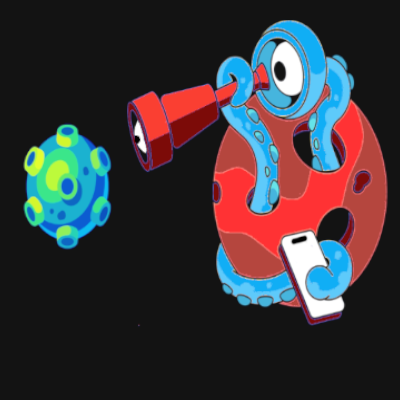
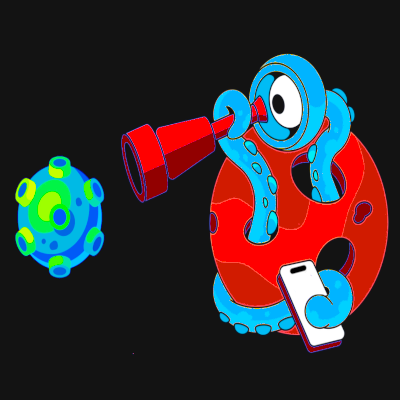
save

diff --git a/src/Pages/AboutUs.js b/src/Pages/AboutUs.js
@@ -1,0 +1,83 @@
+import React from "react";
+import Footer from "../Components/Layout/Footer";
+import NavBar from "../Components/Layout/NavBar";
+import volods from "../Images/volodslogo.png";
+
+export default function AboutUs() {
+  return (
+    <>
+      <NavBar />
+      <div className="h-auto bg-[#131313]">
+        <div className="flex flex-col justify-center items-center pt-10">
+          <h1 className="text-[#94C0D9] text-2xl font-[quicksand] md:text-3xl">WE ARE</h1>
+          <img src={volods} className="w-96 h-48" alt="logo" />
+          <p className="text-lg p-5 text-white font-[quicksand] text-center  md:text-xl lg:pl-28 lg:pr-28 xl:pl-72 xl:pr-72">
+            Not very long time ago when our founders wanted to hire developers
+            for their startup project, they used many freelancing platforms to
+            hire these developers, but little did they know that they were
+            playing Russian roulette and will end up hiring the wrong person
+            that will potentially ruin their entire project. After that the
+            founders pledge that they will create such exclusive community of
+            developers so that no other startup has to endure this pain. That's
+            how Volods came into existence.
+          </p>
+
+          <h1 className="text-[#94C0D9] text-2xl mt-10 font-[quicksand] md:text-4xl">
+            "I" am because "WE" are
+          </h1>
+          <p className="text-lg p-5 text-white font-[quicksand] text-center   md:text-xl lg:pl-28 lg:pr-28 xl:pl-72 xl:pr-72">
+            As a global collective community of developers and entrepreneurs, we
+            love to build and solve problems. Our self-driven diverse cultured
+            team that spans globally is unified by technology.
+          </p>
+
+          <h1 className="text-[#94C0D9] text-2xl mt-10 font-[quicksand] md:text-4xl">
+            Values we live by
+          </h1>
+          <p className="text-md mt-4 text-white font-[quicksand] text-center  md:text-xl">
+            Justice for all - Both Clients & Developers
+          </p>
+          <p className="text-md mt-4 text-white font-[quicksand] text-center  md:text-xl">
+            Restoring faith in Remote work
+          </p>
+          <p className="text-md mt-4 text-white font-[quicksand] text-center  md:text-xl">
+            Honesty & Transparency{" "}
+          </p>
+          <p className="text-md mt-4 text-white font-[quicksand] text-center  md:text-xl">
+            Ownership & Trust
+          </p>
+          <h1 className="text-[#94C0D9] text-2xl mt-14 font-[quicksand] md:text-4xl">
+            Our Lead
+          </h1>
+
+          <h1 className="text-[#94C0D9] text-2xl mt-10 font-[quicksand] md:text-4xl">
+            Work for us
+          </h1>
+          <p className="text-md p-3 text-white font-[quicksand] text-center  md:text-xl">
+            Jump into our Rocketship and let's explore together
+          </p>
+          <h1 className="text-[#94C0D9] text-2xl mt-5 font-[quicksand]">
+            Open Application
+          </h1>
+          <p className="text-md p-3 text-white font-[quicksand] text-center  md:text-xl lg:pl-28 lg:pr-28 xl:pl-72 xl:pr-72">
+            If you think of work as more of a lifestyle than a job, if you want
+            to be surrounded by like-minded people, and if you think you can get
+            sh*t done, we want to hear from you. Volods will always be “open
+            application.”
+          </p>
+          <p className="text-md p-3 text-white font-[quicksand] text-center  md:text-xl lg:pl-28 lg:pr-28 xl:pl-72 xl:pr-72">
+            We’re here to change the world of startups and developers. You’ll be
+            a part of a dedicated team that truly prioritizes transparency,
+            trust, customer satisfaction, and product excellence.
+          </p>
+          <p className="text-md p-3 text-white font-[quicksand] text-center md:text-xl lg:pl-28 lg:pr-28 xl:pl-72 xl:pr-72">
+            Leave us your CV, tell us why you’re the best at what you do, how
+            you’ll fit into Volods, and what you want to accomplish. We look
+            forward to hearing from you! :) 
+          </p>
+        </div>
+      </div>
+      <Footer/>
+    </>
+  );
+}

diff --git a/src/Components/Body/HowItWorks.js b/src/Components/Body/HowItWorks.js
@@ -1,23 +1,23 @@
 import React from 'react'
-import blue from '../../Images/portalBlue.png'
-import red from '../../Images/portalRed.png'
+import blue from '../../Images/blueportalfinal.gif'
+import red from '../../Images/redportalfinal.gif'
 import Carousal from './Carousal'
 
 export default function HowItWorks() {
   return (
     <>
     <div className='h-auto bg-[#131313] pt-32'>
-            <h1 className='text-white font-[quicksand] font-bold flex justify-center text-4xl mb-10 z-20'>How it Works?</h1>
+            <h1 className='text-[#94C0D9] font-[quicksand] font-bold flex justify-center text-4xl mb-10 z-20'>How it Works?</h1>
             <h1 className='text-white font-[quicksand] font-bold flex justify-center text-xl z-20'>Find your Developers</h1>
-            <div className='flex flex-col justify-center font-bold items-center lg:flex-row lg:justify-evenly lg:items-center'>
+            <div className='flex flex-col justify-center font-bold items-center lg:flex-row lg:justify-center lg:items-center'>
                 <div>
-                    <img src={blue} className='w-44 h-[80vw] max-h-[700px] rotate-90 lg:rotate-0 lg:h-[40vw]' alt='portal'/>
+                    <img src={blue} className='w-48 h-[80vw] max-h-[700px] md:w-52 rotate-90 lg:rotate-0 lg:h-[40vw]' alt='portal'/>
                 </div>
                 <div>
                   <Carousal/>
                 </div>
                 <div>
-                    <img src={red} className='w-44 h-[60vw] max-h-[600px] rotate-90 lg:rotate-0 lg:h-[30vw]' alt='portal'/>
+                    <img src={red} className='w-40 h-[60vw] max-h-[600px] md:w-52 rotate-90 lg:rotate-0 lg:h-[30vw]' alt='portal'/>
                 </div>
             </div>
         </div>

diff --git a/src/Components/Layout/NavBar.js b/src/Components/Layout/NavBar.js
@@ -49,17 +49,17 @@ export default function NavBar() {
             </div>
             <ul className={click ? "nav-menu active" : "nav-menu"}>
               <li className="nav-item">
-                <Link to="/" className="nav-links hover:scale-90 hover:text-[#94C0D9]" onClick={closeMobileMenu}>
+                <Link to="/aboutus" className="nav-links hover:scale-90 hover:text-[#94C0D9]" onClick={closeMobileMenu}>
                   About Us
                 </Link>
               </li>
               <li className="nav-item">
                 <Link
-                  to="/about"
+                  to="/services"
                   className="nav-links hover:scale-90 hover:text-[#94C0D9]"
                   onClick={closeMobileMenu}
                 >
-                  Contact
+                  Our Services
                 </Link>
               </li>
             {!logo && <Link to="/" onClick={closeMobileMenu}>
@@ -71,7 +71,7 @@ export default function NavBar() {
                   className="nav-links hover:scale-90 hover:text-[#94C0D9]"
                   onClick={closeMobileMenu}
                 >
-                  Hire
+                  Hire Talent
                 </Link>
               </li>
               <li className="nav-item">

diff --git a/src/Components/Layout/Footer.js b/src/Components/Layout/Footer.js
@@ -96,15 +96,15 @@ export default function Footer() {
           </div>
 
           <span className="flex flex-col items-center lg:flex-row mb-10">
-            <p className="text-white font-[quicksand] mb-3 lg:ml-8">
+            <p className="text-white font-[quicksand] mb-3 lg:ml-8 hover:cursor-pointer">
               Privacy Policy
             </p>
-            <p className="text-white font-[quicksand] mb-3 lg:ml-8">
+            <p className="text-white font-[quicksand] mb-3 lg:ml-8 hover:cursor-pointer">
               Terms & conditions
             </p>
-            <p className="text-white font-[quicksand] mb-3 lg:ml-8">About us</p>
-            <p className="text-white font-[quicksand] mb-3 lg:ml-8">Careers</p>
-            <p className="text-white font-[quicksand] mb-5 lg:ml-8">FAQ's</p>
+            <p className="text-white font-[quicksand] mb-3 lg:ml-8 hover:cursor-pointer">About us</p>
+            <p className="text-white font-[quicksand] mb-3 lg:ml-8 hover:cursor-pointer">Careers</p>
+            <p className="text-white font-[quicksand] mb-5 lg:ml-8 hover:cursor-pointer">FAQ's</p>
           </span>
         </div>
         <p className="text-white text-[10px] flex justify-center font-[quicksand]">

diff --git a/src/App.js b/src/App.js
@@ -11,6 +11,8 @@ import WhyUs from './Components/Body/WhyUs';
 import HowItWorks from './Components/Body/HowItWorks';
 import DevTest from './Components/Body/DevTest';
 import Footer from './Components/Layout/Footer';
+import AboutUs from './Pages/AboutUs';
+import Services from './Pages/Services';
 
 function App() {
 
@@ -26,15 +28,23 @@ function App() {
   return (
     <>
     {!disappearLoadingPage && <LoadingPage/>}
-    {disappearLoadingPage && <NavBar/>}
+
+
+    
+    {/* {disappearLoadingPage && <NavBar/>}
     {disappearLoadingPage && <LandingSecPage/>}
     {disappearLoadingPage && <WhyUs/>}
     {disappearLoadingPage && <HowItWorks/>}
     {disappearLoadingPage && <DevTest/>}
-    {disappearLoadingPage && <Footer/>}
+    {disappearLoadingPage && <Footer/>} */}
     <Routes>
-        <Route path="/hj" element={<LandingSecPage />}/>
+        <Route path="/" element={disappearLoadingPage && [<NavBar/>,<LandingSecPage/>,<WhyUs/>,
+      <HowItWorks/>, <DevTest/>, <Footer/>]}/>
+      
+        <Route path="/aboutus" element={<AboutUs />}/>
+        <Route path="/services" element={<Services />}/>
     </Routes>
+
     </>
   );
 }

diff --git a/src/Components/Body/WhyUs.js b/src/Components/Body/WhyUs.js
@@ -7,7 +7,7 @@ export default function WhyUs() {
   return (
     <>
         <div className='h-auto bg-[#131313]'>
-            <h1 className='text-white font-[quicksand] font-bold flex justify-center text-4xl mb-10 z-20'>Why Us?</h1>
+            <h1 className='text-[#94C0D9] font-[quicksand] font-bold flex justify-center text-4xl mb-10 z-20'>Why Us?</h1>
             <div className='flex flex-col justify-center items-center lg:flex-row lg:justify-evenly lg:items-center'>
                 <span className='mt-5 mb-7 2xl:mt-0 2xl:mb-0'>
                     <img className='w-40 h-40 hover:animate-wiggle' src={clock} alt='clock'/>
@@ -25,6 +25,7 @@ export default function WhyUs() {
                     <h3 className='text-white font-[quicksand] z-20 text-center lg:text-xl'>guarantee</h3>
                 </span>
             </div>
+
         </div>
     </>
   )

diff --git a/src/Pages/Services.js b/src/Pages/Services.js
@@ -1,0 +1,21 @@
+import React from "react";
+import web from '../Images/web.png'
+import app from '../Images/mobiledev.png'
+import uiux from '../Images/uiux.png'
+import digimarketing from '../Images/digitalmarketing.png'
+import seo from '../Images/seo.png'
+import testing from '../Images/testing.png'
+import projectmanagement from '../Images/projectmanagement.png'
+import contentwriting from '../Images/contentwriting.png'
+import NavBar from "../Components/Layout/NavBar";
+import Footer from "../Components/Layout/Footer";
+
+export default function Services() {
+  return (
+    <>
+    <NavBar/>
+    
+      <Footer/>
+    </>
+  );
+}

diff --git a/src/Components/Body/Carousal.js b/src/Components/Body/Carousal.js
@@ -1,8 +1,8 @@
 import React from 'react'
 import skull from '../../Images/skull400.png'
 import hand from '../../Images/Hand400.png'
-import inspection from '../../Images/Inspection400.png'
-import matched from '../../Images/DeveloperIsMatched400.png'
+import inspection from '../../Images/inspection400.png'
+import matched from '../../Images/dev400.png'
 
 export default function Carousal() {
   return (

diff --git a/tailwind.config.js b/tailwind.config.js
@@ -72,5 +72,6 @@ module.exports = {
   fontFamily: {
     quicksand: ["Quicksand", "sans-serif"],
   },
-  plugins: [require('tw-elements/dist/plugin')],
+  plugins: [require('tw-elements/dist/plugin'),
+  require("daisyui")],
 }

diff --git a/public/index.html b/public/index.html
@@ -19,4 +19,6 @@
     <noscript>Hire Candidates to build your next BIG THING! Volods is a marketplace for hiring and providing passionate remote developers. </noscript>
     <div id="root"></div>
   </body>
+
+
 </html>

diff --git a/src/index.js b/src/index.js
@@ -14,6 +14,10 @@ root.render(
     <App />
     </BrowserRouter>
 
+    
+
 );
+
+
 
 
